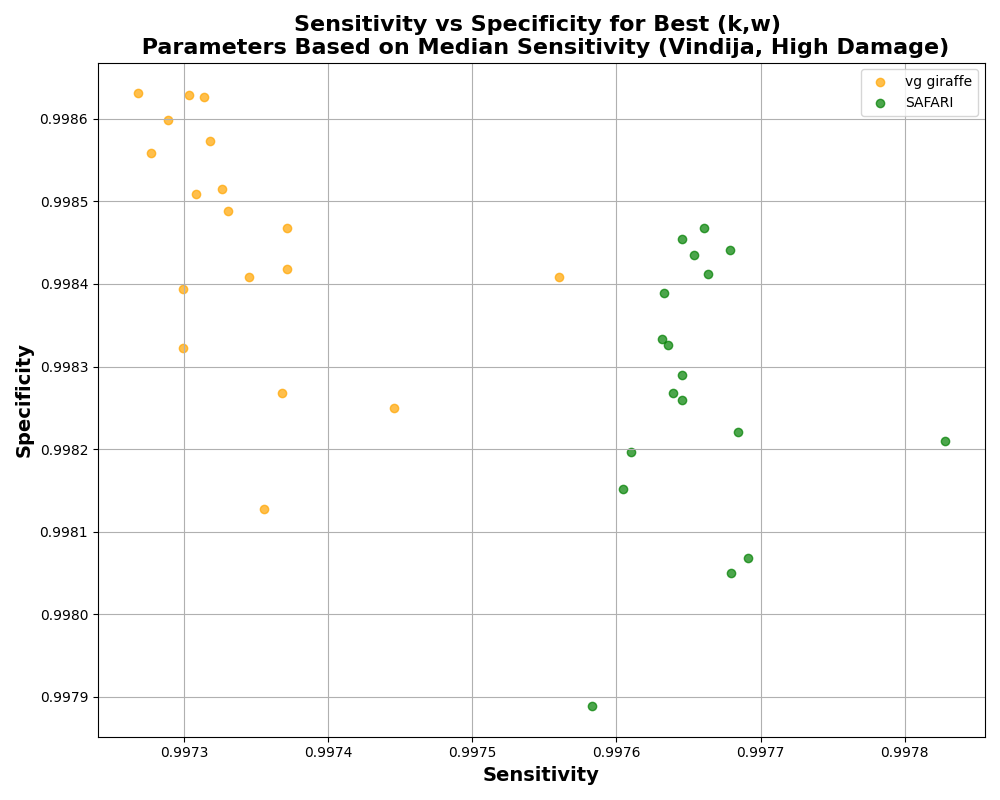
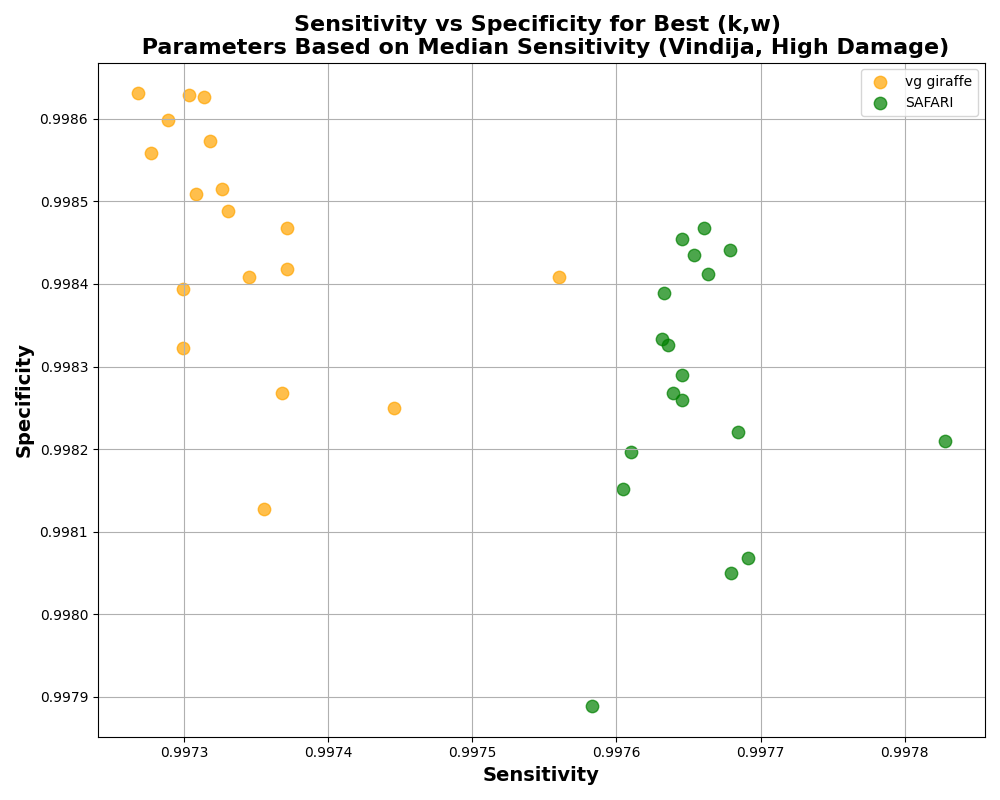
Update

diff --git a/linear_experiment/human_mito/stat_results/plot_svs_none.py b/linear_experiment/human_mito/stat_results/plot_svs_none.py
@@ -48,9 +48,9 @@ def plot_best_sensitivity(data_path):
             # Adding slight jitter to 'vg giraffe' data points
             jittered_sensitivity = tool_data['sensitivity']
             jittered_specificity = tool_data['specificity']
-            plt.scatter(jittered_sensitivity, jittered_specificity, label=f'{tool}', color=tool_colors[tool], alpha=1.0, edgecolor='black', linewidth=0.5)
+            plt.scatter(jittered_sensitivity, jittered_specificity, label=f'{tool}', color=tool_colors[tool], alpha=1.0, edgecolor='black', linewidth=0.5,s=80)
         else:
-            plt.scatter(tool_data['sensitivity'], tool_data['specificity'], label=f'{tool}', color=tool_colors[tool], alpha=0.3, marker='^')
+            plt.scatter(tool_data['sensitivity'], tool_data['specificity'], label=f'{tool}', color=tool_colors[tool], alpha=0.3, marker='^',s=80)
 
     plt.title('Sensitivity vs Specificity for Best (k,w) \n Parameters Based on Median Sensitivity (' + sys.argv[3] + ", No Damage)", fontsize=16, fontweight='bold')
     plt.xlabel('Sensitivity', fontsize=14, fontweight='bold')
